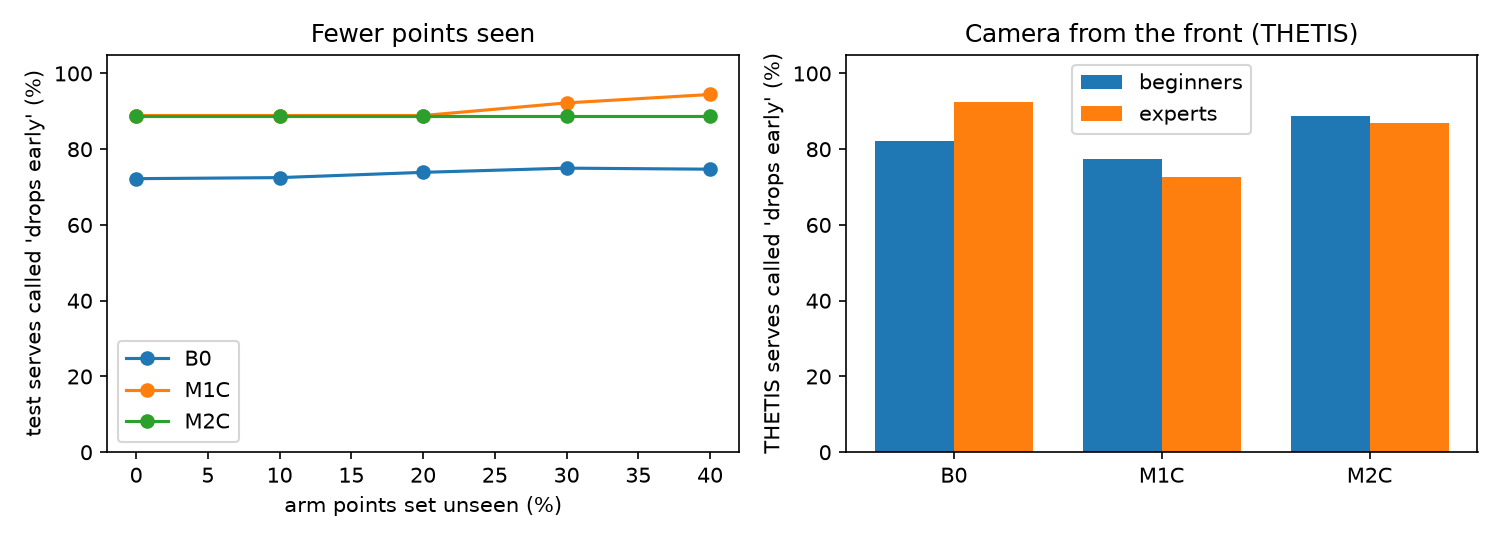
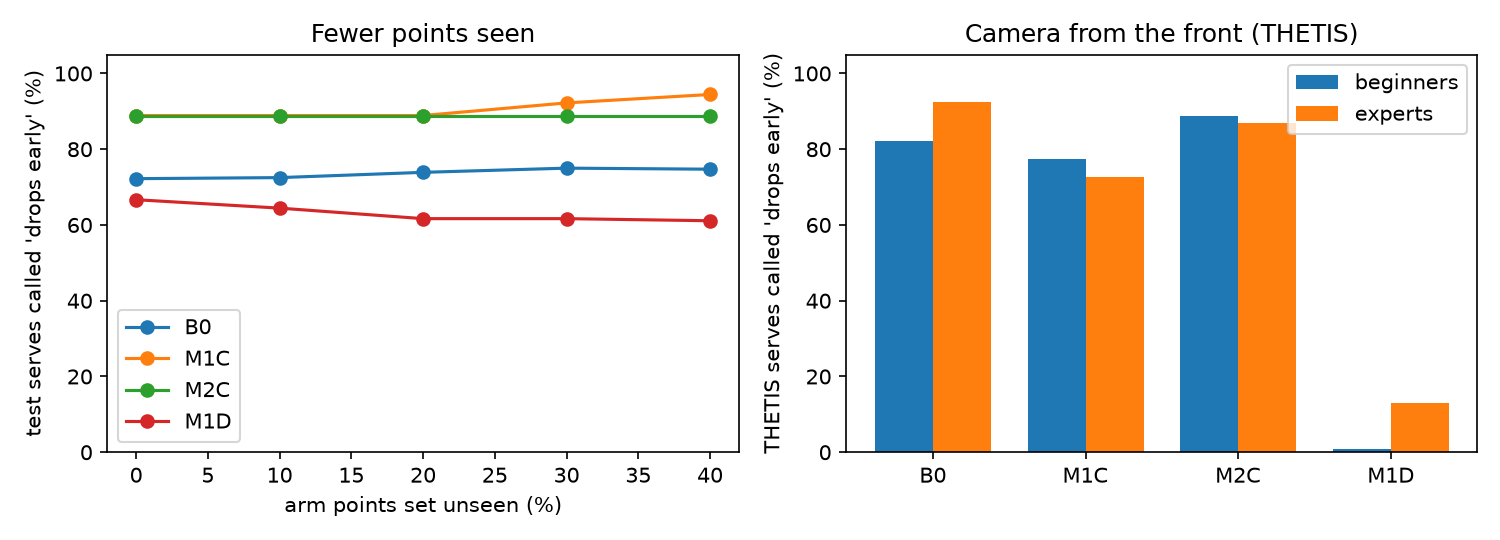
feat(eval): M1d in the value and bias checks

diff --git a/eval/bias.py b/eval/bias.py
@@ -19,8 +19,9 @@ Every model at the threshold eval/value.py chose for it on validation scores:
    p1 to p31) against experts (p32 to p55), and the share the app's camera check (shoulder width
    in the stance) sends back to be recorded again.
 6. Recorded after the models were chosen (dataset.NEW: a new amateur, EA, and JC after the
-   feedback): recall and false alarms of the trained models as they are, on every judged serve
-   and on the ones the app does not send back (camera to the side, arm points seen).
+   feedback): recall and false alarms of each model on the clips it was not trained on (M1d
+   trained on JC's), on every judged serve and on the ones the app does not send back (camera to
+   the side, arm points seen).
 
 Writes experiments/serve/bias.csv (rates by group) and bias.png (parts 3 and 5).
 """
@@ -36,7 +37,7 @@ import numpy as np
 from app import service
 from strokes.serve import baseline, dataset, model, pretrain, train
 
-MODELS = ["b0", "m1c", "m2c"]  # the rule, the app's model (from scratch), the pretrained one
+MODELS = ["b0", "m1c", "m2c", "m1d"]  # the rule, the app's model, the pretrained one, M1c + data
 SHARES = [0.0, 0.1, 0.2, 0.3, 0.4]  # of the arm points set unseen
 REPEATS = 20
 ARM_JOINTS = np.array(train.ARMS)
@@ -101,9 +102,10 @@ def rates(model_name: str, group: str, value: str, said: np.ndarray, positive: n
 
 def new_players(data, loaded: dict, cuts: dict) -> list[dict]:
     """Recall and false alarms on the judged serves of dataset.NEW, by player, with every serve and
-    with the ones the app does not send back."""
+    with the ones the app does not send back; each model only on the clips it was not trained on."""
     chosen = (data["split"] == "new") & (data["valid"] == 1)
     x, mask, players = data["x"][chosen], data["mask"][chosen], data["player"][chosen]
+    videos = data["video"][chosen]
     positive = data["category"][chosen] == baseline.POSITIVE
     kept = (model.shoulder_width(x) >= model.MIN_SHOULDERS) & (
         train.arms(x, mask)[1].mean((1, 2)) >= service.MIN_SEEN
@@ -112,8 +114,11 @@ def new_players(data, loaded: dict, cuts: dict) -> list[dict]:
     rows = []
     for name in MODELS:
         said = predict(name, loaded, x, mask) >= cuts[name]
+        unseen = ~np.isin(videos, [v for _, v in scores(name)])  # M1d trained on JC's after
         for player in np.unique(players):
-            mine = players == player
+            mine = (players == player) & unseen
+            if not mine.any():
+                continue
             for value, keep in ((names.get(player, player), mine),
                                 (f"{names.get(player, player)}, kept", mine & kept)):  # fmt: skip
                 rows.append(rates(name, "recorded after", value, said[keep], positive[keep]))

diff --git a/eval/value.py b/eval/value.py
@@ -11,7 +11,7 @@ the value of one analysis is
     B × (p × TPR × hit − p × (1 − TPR) × miss − (1 − p) × FPR × false_alarm) − compute cost
 
 and a player makes analyses_per_month of them. Parameters and their sources: configs/value.yaml.
-Models: B0, M1, M1b, M1c, M2, M2c (experiments/serve/<model>.csv, from strokes.serve.baseline and
+Models: B0, M1, M1b, M1c, M1d, M2, M2c (experiments/serve/<model>.csv, from strokes.serve.baseline and
 .train)
 and Qwen3-VL, the Project 3 system, from its runs. Each model's threshold is the one with the
 most value on its validation scores, never on the test split; test values get a 95 % bootstrap
@@ -38,7 +38,7 @@ RUNS = ROOT / "eval" / "serve" / "runs"
 # Qwen3-VL with prompt v22, the final Project 3 version (eval/label.py, REVIEW_RUNS)
 QWEN_RUNS = {"validation": ["20261102-131618-full", "20261102-132154-full"],
              "test": ["20261106-133044-full"]}  # fmt: skip
-MODELS = ["b0", "m1", "m1b", "m1c", "m2", "m2c", "qwen"]
+MODELS = ["b0", "m1", "m1b", "m1c", "m1d", "m2", "m2c", "qwen"]
 FACTORS = [0.5, 0.8, 1.2, 1.5]
 BOOTSTRAP = 2000
 

diff --git a/README.md b/README.md
@@ -254,6 +254,7 @@ Validation scores come from 5-fold cross-validation on the train split (30 video
 | M1c: M1b, 85 epochs | 0.681 ± 0.063 | 32.04 | 0.611 ± 0.055 | 0.757 ± 0.023 | 32.97 (21.00 to 46.27) | 5.0 |
 | M2: M1b from the pretrained encoder, 300 epochs | 0.673 ± 0.036 | 29.12 | 0.700 ± 0.061 | 0.702 ± 0.033 | 34.30 (21.00 to 47.60) | 5.0 |
 | M2c: M2, 58 epochs | 0.644 ± 0.031 | 35.63 | 0.718 ± 0.037 | 0.618 ± 0.038 | 32.97 (21.00 to 46.27) | 5.0 |
+| M1d: M1c plus JC's 44 serves after the feedback | 0.858 ± 0.022 | 43.17 | 0.546 ± 0.060 | 0.689 ± 0.020 | 10.51 (−12.80 to 32.58) | 5.0 |
 
 Recommending the drill to everyone, with no model, is worth Q21.00 per analysis; M1's value-optimal threshold does exactly that. The intervals overlap: 18 test videos with 5 negatives cannot separate the models yet, which is why more amateur players are being recorded. The coach price is the middle of the academy quotes, Q200 to 500 an hour (the value scales with it, the thresholds and the ranking do not, and the sensitivity at ±50 % covers the range); the hit, miss and false-alarm weights are estimates until the improvement study replaces them. The share of serves with the fault matters most: 62 % is JC's before the feedback. M1c is worth more than B0 only when more than about half the serves have the fault (51 % with the test rates, 74 % with the false alarms on EA, see bias below); with the share among the amateurs we recorded before any feedback, 23 of 91 serves (25 %), B0, M1c, M2c and Qwen are worth no more on validation than never recommending the drill (M1, M1b and M2 are, at thresholds above 0.6).
 
@@ -268,6 +269,7 @@ Bias and robustness (`eval/bias.py`, `experiments/serve/bias.csv` and `bias.png`
 - **Left-handed players.** The arm models put the tossing arm on the same side, so a mirrored window gives the same probability (largest change 0).
 - **Camera in front of the player.** On THETIS, filmed from in front of the player, the models call "drops early" on 73 to 93 % of the serves, experts included (B0 82 % of beginners and 93 % of experts, M1c 77 and 73 %, M2c 89 and 87 %): they never saw that view. The app now checks the camera before it answers: when the shoulders are less than 0.4 torso lengths apart across the image in the stance (the first 0.53 s of the window, `strokes.serve.model.shoulder_width`), one shoulder hides the other and the video is recorded again. On our videos only 5 the team could not judge fall under the line (0.17 to 0.36; every judged serve 0.47 or more); on THETIS, 79 % of the serves. The 21 % left still get the same false alarms (M1c 69 %, M2c 87 %), so the recording guide stays the main defense.
 - **Players recorded after the models were chosen.** On Nov 7, with the models and thresholds already fixed, two sessions were cut into clips (split `new` of `strokes/serve/dataset.py`, never used to train, pretrain or choose): a new amateur, EA, and JC after the feedback. The two raters agreed on all of them except 4 clips of JC with no serve, settled together, and judged all 98 serves without the fault: EA 54, JC 44. The file names said which session each clip came from, so these labels are not blind. Scored as they are, the models call "drops early" on EA's serves B0 13 %, M1c 80 %, M2c 57 %, and on JC's after the feedback B0 70 %, M1c and M2c 100 %; the app sends back only 3 of EA's. The trained models do not carry over to a new player and do not see JC's change; B0, a single hand-made measure, carries over best to EA. That measure hardly moves for JC (median 0.15 s before contact after the feedback, 0.17 s before it), while the mean height of his tossing wrist after the feedback stays up longer, like his serves without the fault (`eda.png`).
+- **More data without the fault (M1d).** M1d is M1c trained with JC's 44 serves after the feedback too (`--arms --epochs 85 --more jc-post`); EA stays unseen. Its validation scores (AUROC 0.86, Q43.17) include those 44 serves, which it tells apart easily, so they do not compare with the other models'. It calls "drops early" on 17 % of EA's serves (M1c 80 %) and on 1 % of the THETIS beginners and 13 % of the experts, but on test it finds 71 % of the faults (M1c 100 %) and is worth Q10.51 (M1c Q32.97), and on JC's serves before the feedback it calls "drops early" on 91 % of the 14 without the fault and 83 % of the 23 with it. Every serve with the fault was filmed from one side of the player (the tossing arm on the right of the image) and every serve of Nov 7 from the other (on the left), so M1d most likely learned the camera side and the session, not the fault. It does not replace M1c. The data that would help are serves with the fault filmed the way the Nov 7 sessions were.
 
 **Limitation: what the app's answer means.** No model here has yet shown that it sees the fault in a player it was not trained on, and the serves recorded after the models were chosen confirm it: M1c calls "drops early" on 80 % of a new amateur's serves and on all of JC's after the feedback, every one judged without the fault. Every serve with the fault comes from one amateur, only 3 of JC's test serves are without it, and within JC the rankings are near chance. On JC's serves without the fault M1c recommends the drill 97 % of the time, so for a new amateur "drops early" should be read as "an amateur serve, the drill is worth trying", not as a measured fault; a false alarm costs a drill the player did not need. The app says how far to trust it: next to every answer it shows the model's test rates (the drill recommended on 64 % of the test serves without the fault) and the confidence. M1c also reads unseen arm points as a sign of the fault, so the new recording under 70 % of the points seen and the low confidence under 85 % matter more with it than with M2c. What would lift the limitation: the improvement study's amateurs, with and without the fault, recorded the same way; then retraining, and the within-player check of `eval/bias.py` again.
 
